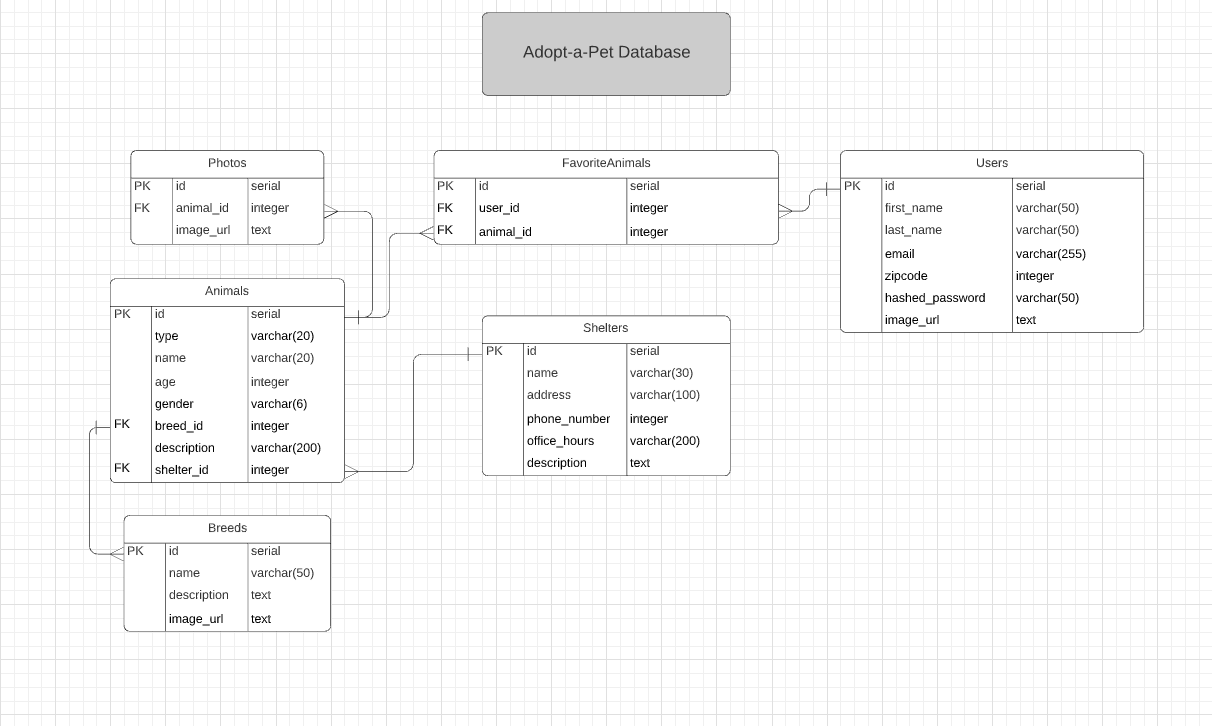
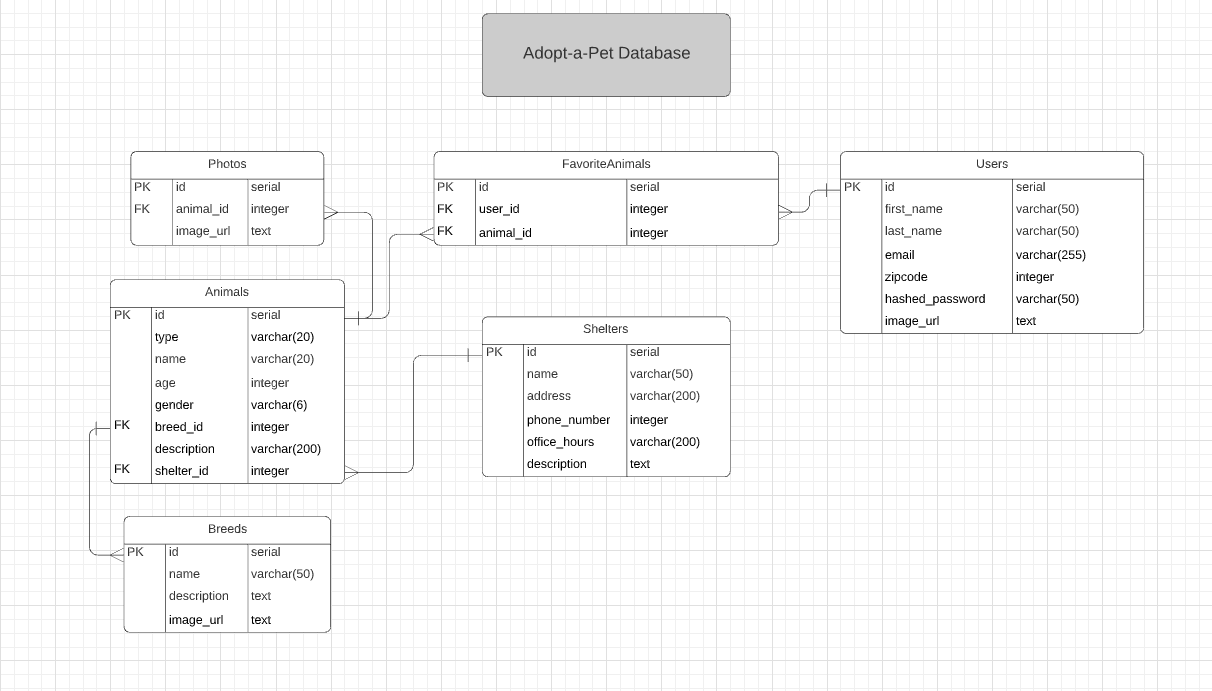
set up all tables and relations

diff --git a/migrations/versions/20201120_150602_create_users_table.py b/migrations/versions/20201120_150602_create_users_table.py
@@ -19,20 +19,73 @@ depends_on = None
 def upgrade():
     # ### commands auto generated by Alembic - please adjust! ###
     op.create_table('users',
-    sa.Column('id', sa.Integer(), nullable=False),
-    sa.Column('first_name', sa.String(length=50), nullable=False),
-    sa.Column('last_name', sa.String(length=50), nullable=False),
-    sa.Column('email', sa.String(length=255), nullable=False),
-    sa.Column('zipcode', sa.Integer(), nullable=False),
-    sa.Column('hashed_password', sa.String(length=255), nullable=False),
-    sa.Column('image_url', sa.String(length=2000), nullable=False),
-    sa.PrimaryKeyConstraint('id'),
-    sa.UniqueConstraint('email'),
+        sa.Column('id', sa.Integer(), nullable=False),
+        sa.Column('first_name', sa.String(length=50), nullable=False),
+        sa.Column('last_name', sa.String(length=50), nullable=False),
+        sa.Column('email', sa.String(length=255), nullable=False),
+        sa.Column('zipcode', sa.Integer(), nullable=False),
+        sa.Column('hashed_password', sa.String(length=255), nullable=False),
+        sa.Column('image_url', sa.String(length=2000), nullable=False),
+        sa.PrimaryKeyConstraint('id'),
+        sa.UniqueConstraint('email')
+    )
+
+    op.create_table('shelters',
+        sa.Column('id', sa.Integer(), nullable=False),
+        sa.Column('name', sa.String(length=50), nullable=False),
+        sa.Column('address', sa.String(length=200), nullable=False),
+        sa.Column('phone_number', sa.Integer(), nullable=False),
+        sa.Column('office_hours', sa.String(200), nullable=False),
+        sa.Column('description', sa.String(2000), nullable=False),
+        sa.PrimaryKeyConstraint('id')
+    )
+
+    op.create_table('breeds',
+        sa.Column('id', sa.Integer(), nullable=False),
+        sa.Column('name', sa.String(50), nullable=False),
+        sa.Column('description', sa.String(2000), nullable=False),
+        sa.Column('image_url', sa.String(2000), nullable=False),
+        sa.PrimaryKeyConstraint('id')
+    )
+
+    op.create_table('animals',
+        sa.Column('id', sa.Integer(), nullable=False),
+        sa.Column('type', sa.String(20), nullable=False),
+        sa.Column('name', sa.String(50), nullable=False),
+        sa.Column('age', sa.String(10), nullable=False),
+        sa.Column('gender', sa.String(6), nullable=False),
+        sa.Column('breed_id', sa.Integer(), nullable=False),
+        sa.Column('description', sa.String(2000), nullable=False),
+        sa.Column('shelter_id', sa.Integer(), nullable=False)
+        sa.ForeignKeyConstraint(['breed_id'], ['breeds.id'], ),
+        sa.ForeignKeyConstraint(['shelter_id'], ['shelters.id'], ),
+        sa.PrimaryKeyConstraint('id')
+    )
+
+    op.create_table('photos',
+        sa.Column('id', sa.Integer(), nullable=False),
+        sa.Column('animal_id', sa.Integer(), nullable=False),
+        sa.Column('image_url', sa.String(2000), nullable=False),
+        sa.ForeignKeyConstraint(['animal_id'], ['animals.id'], ),
+        sa.PrimaryKeyConstraint('id')
+    )
+
+    op.create_table('favorite_animals',
+        sa.Column('user_id', sa.Integer(), nullable=False),
+        sa.Column('animal_id', sa.Integer(), nullable=False),
+        sa.ForeignKeyConstraint(['animal_id'], ['animals.id'], ),
+        sa.ForeignKeyConstraint(['user_id'], ['users.id'], ),
+        sa.PrimaryKeyConstraint('user_id', 'animal_id')
     )
     # ### end Alembic commands ###qqqqqqqqq
 
 
 def downgrade():
     # ### commands auto generated by Alembic - please adjust! ###
+    op.drop_table('photos')
+    op.drop_table('favorite_animals')
+    op.drop_table('animals')
+    op.drop_table('breeds')
+    op.drop_table('shelters')
     op.drop_table('users')
     # ### end Alembic commands ###

diff --git a/app/models/user.py b/app/models/user.py
@@ -3,37 +3,39 @@ from werkzeug.security import generate_password_hash, check_password_hash
 from flask_login import UserMixin
 
 class User(db.Model, UserMixin):
-  __tablename__ = 'users'
+    __tablename__ = 'users'
 
-  id = db.Column(db.Integer, primary_key = True)
-  first_name = db.Column(db.String(50), nullable = False)
-  last_name = db.Column(db.String(50), nullable = False)
-  zipcode = db.Column(db.Integer, nullable = False)
-  email = db.Column(db.String(255), nullable = False, unique = True)
-  hashed_password = db.Column(db.String(255), nullable = False)
-  image_url = db.Column(db.String(2000))
-
-
-  @property
-  def password(self):
-    return self.hashed_password
+    id = db.Column(db.Integer, primary_key = True)
+    first_name = db.Column(db.String(50), nullable = False)
+    last_name = db.Column(db.String(50), nullable = False)
+    zipcode = db.Column(db.Integer, nullable = False)
+    email = db.Column(db.String(255), nullable = False, unique = True)
+    hashed_password = db.Column(db.String(255), nullable = False)
+    image_url = db.Column(db.String(2000))
 
 
-  @password.setter
-  def password(self, password):
-    self.hashed_password = generate_password_hash(password)
+    @property
+    def password(self):
+        return self.hashed_password
 
 
-  def check_password(self, password):
-    return check_password_hash(self.password, password)
+    @password.setter
+    def password(self, password):
+        self.hashed_password = generate_password_hash(password)
 
 
-  def to_dict(self):
-    return {
-      "id": self.id,
-      "first_name": self.first_name,
-      "last_name": self.last_name,
-      "email": self.email,
-      "zipcode": self.zipcode,
-      "image_url": self.image_url
+    def check_password(self, password):
+        return check_password_hash(self.password, password)
+
+
+    def to_dict(self):
+        return {
+            "id": self.id,
+            "first_name": self.first_name,
+            "last_name": self.last_name,
+            "email": self.email,
+            "zipcode": self.zipcode,
+            "image_url": self.image_url
     }
+
+    favorite_animals = db.relationship("Favorite_Animal", back_populates="users", cascade="all, delete")

diff --git a/app/models/animal.py b/app/models/animal.py
@@ -1,0 +1,33 @@
+from .db import db
+
+
+class Animal(db.Model):
+    __tablename__ = "animals"
+
+    id = db.Column(db.Integer, primary_key=True)
+    type = db.Column(db.String(20), nullable=False)
+    name = db.Column(db.String(50), nullable=False)
+    age = db.Column(db.String(10), nullable=False)
+    gender = db.Column(db.String(6), nullable=False)
+    breed_id = db.Column(db.Integer, db.ForeignKey("breeds.id"), nullable=False)
+    description = db.Column(db.String, nullable=False)
+    shelter_id = db.Column(db.Integer, db.ForeignKey("shelters.id"), nullable=False)
+
+
+    def to_dict(self):
+        return {
+            "id": self.id,
+            "type": self.type,
+            "name": self.name,
+            "age": self.age,
+            "gender": self.gender,
+            "breed_id": self.breed_id,
+            "description": self.description,
+            "shelter_id": self.shelter_id,
+            "photos": [photo.to_dict() for photo in self.photos]
+        }
+
+    photos = db.relationship("Photo", back_populates="animals", cascade="all, delete")
+    breeds = db.relationship("Breed", back_populates="animals", cascade="all, delete")
+    shelters = db.relationship("Shelter", back_populates="animals", cascade="all, delete")
+    favorite_animals = db.relationship("Favorite_Animal", back_populates="animals", cascade="all, delete")

diff --git a/app/models/shelter.py b/app/models/shelter.py
@@ -1,0 +1,26 @@
+from .db import db
+
+
+class Shelter(db.Model):
+    __tablename__ = "shelters"
+
+    id = db.Column(db.Integer, primary_key=True)
+    name = db.Column(db.String(50), nullable=False)
+    address = db.Column(db.String(200), nullable=False)
+    phone_number = db.Column(db.Integer, nullable=False)
+    office_hours = db.Column(db.String(200))
+    description = db.Column(db.String(2000), nullable=False)
+
+
+    def to_dict(self):
+        return {
+            "id": self.id,
+            "name": self.name,
+            "address": self.address,
+            "phone_number": self.phone_number,
+            "office_hours": self.office_hours,
+            "description": self.description
+        }
+
+
+    animals = db.relationship("Animal", back_populates="shelters", cascade="all, delete")

diff --git a/app/models/favorite_animal.py b/app/models/favorite_animal.py
@@ -1,0 +1,20 @@
+from .db import db
+
+
+class Favorite_Animal(db.Model):
+    __tablename__ = "favorite_animals"
+
+    id = db.Column(db.Integer, primary_key=True)
+    user_id = db.Column(db.Integer, db.ForeignKey('users.id'), nullable=False)
+    animal_id = db.Column(db.Integer, db.ForeignKey('animals.id'), nullable=False)
+
+
+    def to_dict(self):
+        return {
+            "id": self.id,
+            "user_id": self.user_id,
+            "animal_id": self.animal_id,
+        }
+
+    users = db.relationship("User", back_populates="favorite_animals")
+    animals = db.relationship("Animal", back_populates="favorite_animals")

diff --git a/app/models/breed.py b/app/models/breed.py
@@ -1,0 +1,22 @@
+from .db import db
+
+
+class Breed(db.Model):
+    __tablename__ = "breeds"
+
+    id = db.Column(db.Integer, primary_key=True)
+    name = db.Column(db.String(50), nullable=False)
+    description = db.Column(db.String, nullable=False)
+    image_url = db.Column(db.String(2000))
+
+
+    def to_dict(self):
+        return {
+            "id": self.id,
+            "name": self.name,
+            "description": self.description,
+            "image_url": self.image_url
+        }
+
+
+    animals = db.relationship("Animal", back_populates="breeds", cascade="all, delete")

diff --git a/app/models/photo.py b/app/models/photo.py
@@ -1,0 +1,20 @@
+from .db import db
+
+
+class Photo(db.Model):
+    __tablename__ = "photos"
+
+    id = db.Column(db.Integer, primary_key=True)
+    animal_id = db.Column(db.Integer, db.ForeignKey("animals.id"))
+    image_url = db.Column(db.String(2000))
+
+
+    def to_dict(self):
+        return {
+            "id": self.id,
+            "animal_id": self.animal_id,
+            "image_url": self.image_url
+        }
+
+
+    animals = db.relationship("Animal", back_populates="photos", cascade="all, delete")

diff --git a/app/models/__init__.py b/app/models/__init__.py
@@ -1,2 +1,7 @@
 from .db import db
 from .user import User
+from .shelter import Shelter
+from .animal import Animal
+from .breed import Breed
+from .photo import Photo
+from .favorite_animal import Favorite_Animal
